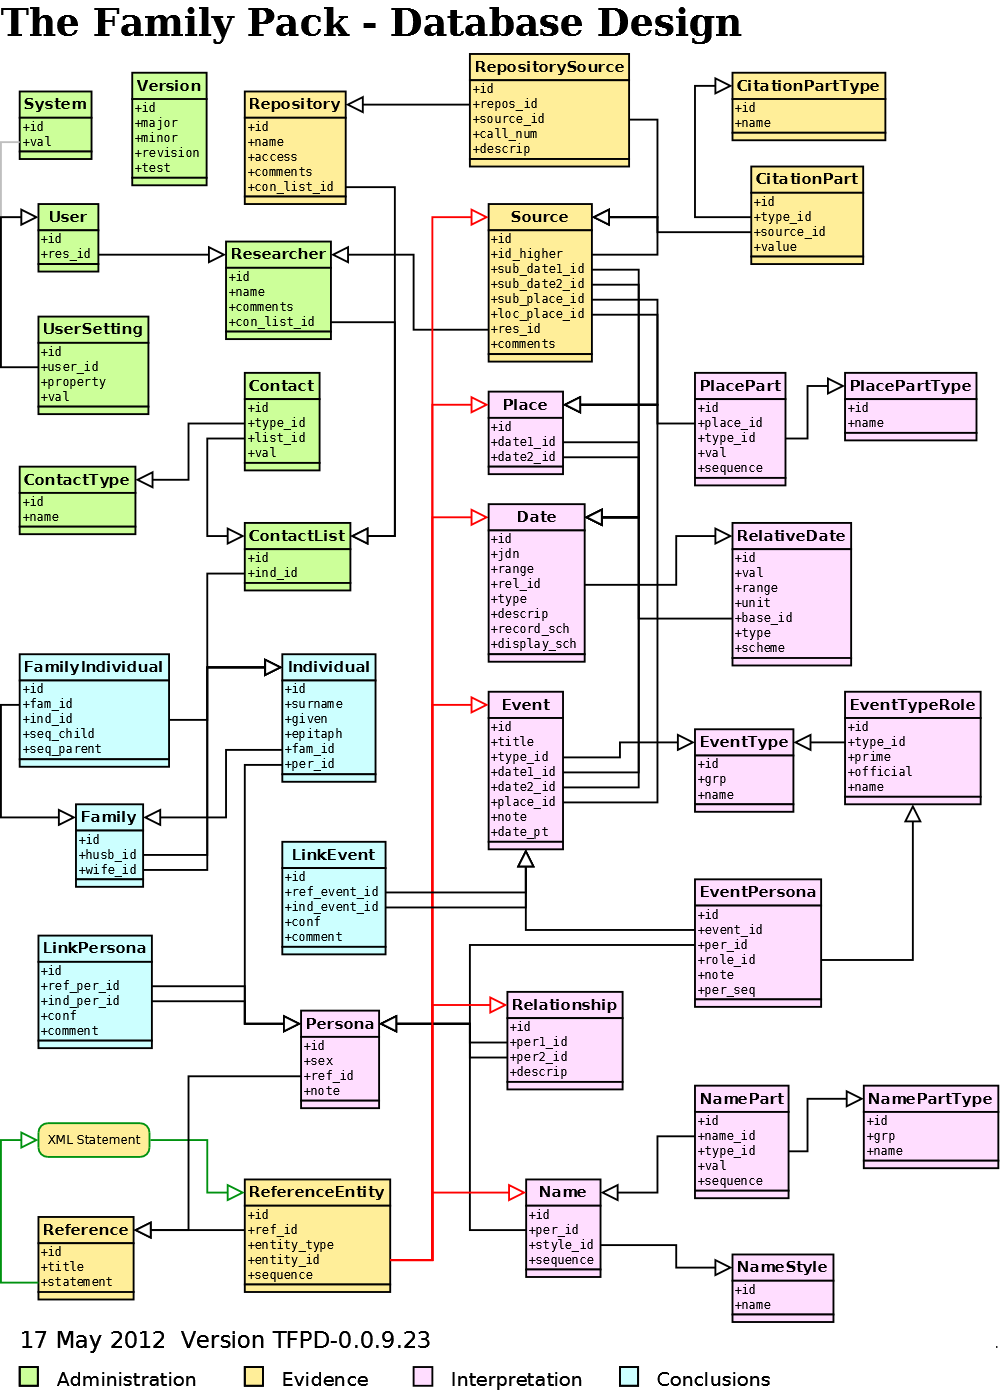
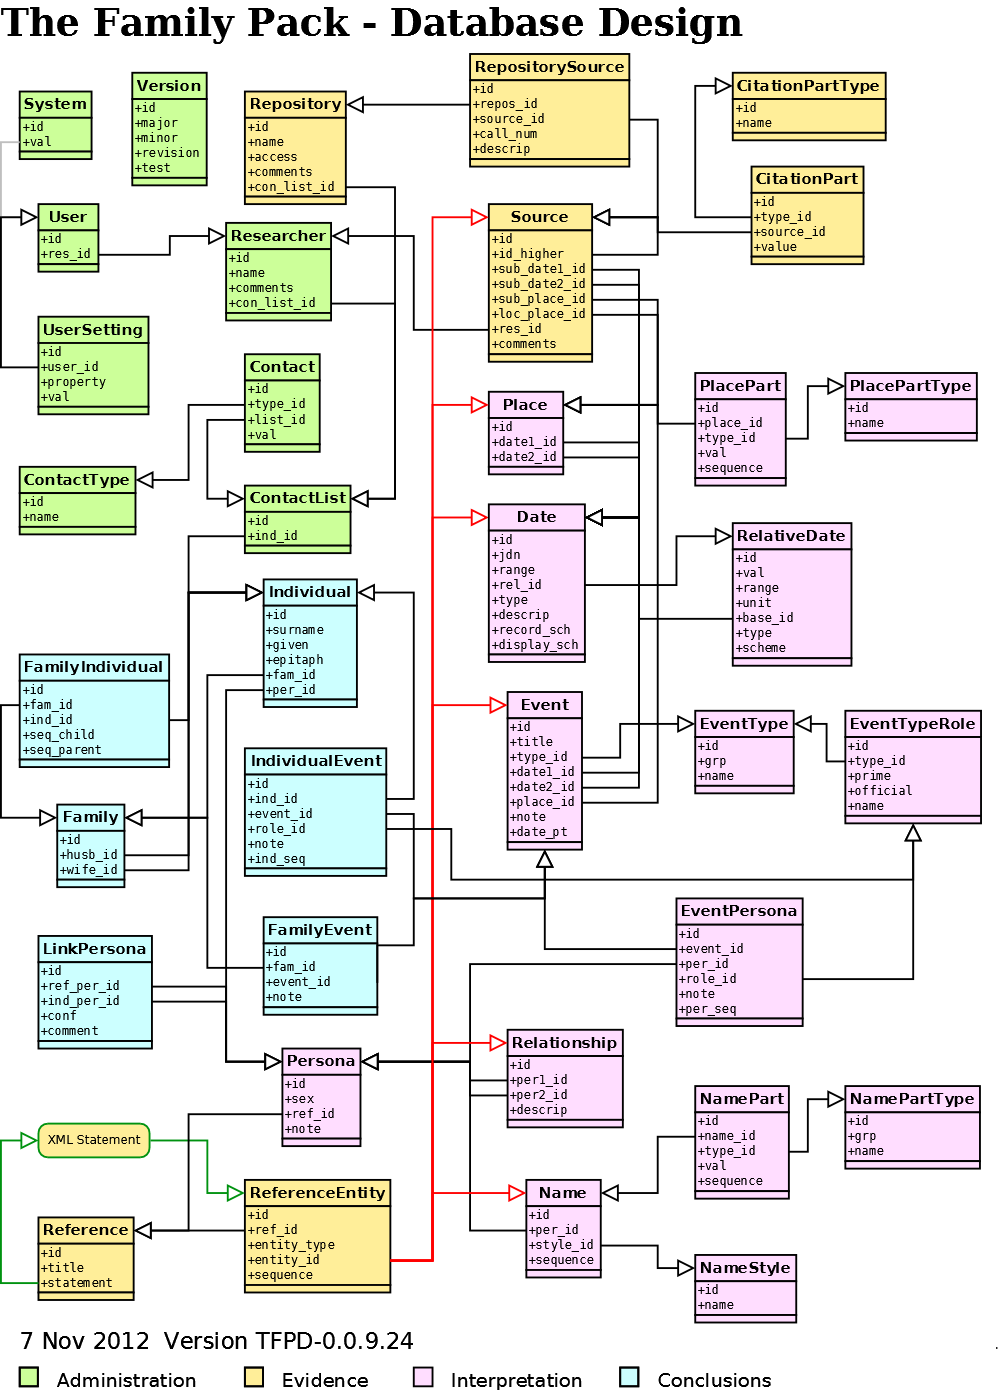
Update GEDCOM import to use TFPD-0.0.9.24 database. Correct a bug in the Create (new) database sql script.
git-svn-id: https://svn.code.sf.net/p/thefamilypack/code/tfp/trunk@306 0b5b8454-fdc9-41d1-a9ee-242ce37e0c65

diff --git a/src/rec/recGedParse.cpp b/src/rec/recGedParse.cpp
@@ -55,12 +55,15 @@ private:
     int                  m_nameSeq;
 
 public:
-    GedIndividual() : m_ind(0), m_per(0), m_nameSeq(0) { 
+    GedIndividual( idt indID ) : m_ind(0), m_per(0), m_nameSeq(0) { 
+        m_ind.FSetID( indID );
         m_per.Save(); 
         m_ind.f_per_id = m_per.f_id;
+        m_ind.Save();
     }
 
     idt GetPersonaID() const { return m_per.f_id; }
+    idt GetIndID() const { return m_ind.FGetID(); }
     int GetNameSeq() { return ++m_nameSeq; }
     wxString GetNameStr() const { return m_per.GetNameStr(); }
 
@@ -79,9 +82,13 @@ private:
     int       m_childSeq;
 
 public:
-    GedFamily() : m_fam(0), m_husbPerId(0), m_wifePerId(0), m_childSeq(0) {}
+    GedFamily( idt famID ) 
+        : m_fam(0), m_husbPerId(0), m_wifePerId(0), m_childSeq(0) 
+    {
+        m_fam.FSetID( famID );
+        m_fam.Save();
+    }
 
-    void SetFamId( idt famID ) { m_fam.f_id = famID; }
     void SetHusb( idt indID ) { 
         m_fam.f_husb_id = indID;
         UpdateIndividual( &m_husbPerId, indID ); 
@@ -93,8 +100,9 @@ public:
 
     void AddChild( idt indID );
 
-    idt GetHusbPerId() const { return m_husbPerId; }
-    idt GetWifePerId() const { return m_wifePerId; }
+    idt GetFamilyID() const { return m_fam.FGetID(); }
+    idt GetHusbIndId() const { return m_fam.f_husb_id; }
+    idt GetWifeIndId() const { return m_fam.f_wife_id; }
     wxString GetHusbNameStr() const { return recPersona::GetNameStr( m_husbPerId ); }
     wxString GetWifeNameStr() const { return recPersona::GetNameStr( m_wifePerId ); }
 
@@ -334,8 +342,7 @@ void recGedParse::ReadHead( int level )
 
 void recGedParse::ReadIndi( int level )
 {
-    GedIndividual gind;
-    gind.SetIndId( m_indiMap[ m_index ] );
+    GedIndividual gind( m_indiMap[ m_index ] );
 
     bool cont = ReadNextLine();
     while( cont && m_level >= level ) {
@@ -355,9 +362,6 @@ void recGedParse::ReadIndi( int level )
             case tagOCCU:
                 ReadIndEvent( gind, level+1 );
                 continue;
-//            case tagOCCU:
-//                ReadIndAttr( gind, level+1 );
-//                continue;
             case tag_END:
                 cont = false;
                 continue;
@@ -441,45 +445,46 @@ void recGedParse::ReadIndEvent( GedIndividual& gind, int level )
 {
     recEvent ev(0);
     ev.Save(); // We need the id number
-    recEventPersona ep(0);
-    ep.f_event_id = ev.f_id;
-    ep.f_per_id = gind.GetPersonaID();
+    recIndividualEvent ie(0);
+    ie.FSetEventID( ev.FGetID() );
+    ie.FSetIndID( gind.GetIndID() );
     wxString titlefmt;
     recDate::DatePoint dp;
 
     switch( m_tag )
     {
     case tagBIRT:
-        ev.f_type_id = recEventType::ET_Birth;
-        ep.f_role_id = recEventTypeRole::ROLE_Birth_Born;
+        ev.FSetTypeID( recEventType::ET_Birth );
+        ie.FSetRoleID( recEventTypeRole::ROLE_Birth_Born );
         titlefmt = _("Birth of %s");
         dp = recDate::DATE_POINT_Beg;
         break;
     case tagCHR:
-        ev.f_type_id = recEventType::ET_Baptism;
-        ep.f_role_id = recEventTypeRole::ROLE_Baptism_Baptised;
+        ev.FSetTypeID( recEventType::ET_Baptism );
+        ie.FSetRoleID( recEventTypeRole::ROLE_Baptism_Baptised );
         titlefmt = _("Baptism of %s");
         dp = recDate::DATE_POINT_Beg;
         break;
     case tagDEAT:
-        ev.f_type_id = recEventType::ET_Death;
-        ep.f_role_id = recEventTypeRole::ROLE_Death_Died;
+        ev.FSetTypeID( recEventType::ET_Death );
+        ie.FSetRoleID( recEventTypeRole::ROLE_Death_Died );
         titlefmt = _("Death of %s");
         dp = recDate::DATE_POINT_End;
         break;
     case tagBURI:
-        ev.f_type_id = recEventType::ET_Burial;
-        ep.f_role_id = recEventTypeRole::ROLE_Burial_Deceased;
+        ev.FSetTypeID( recEventType::ET_Burial );
+        ie.FSetRoleID( recEventTypeRole::ROLE_Burial_Deceased );
         titlefmt = _("Burial of %s");
         dp = recDate::DATE_POINT_End;
         break;
     case tagOCCU:
-        ev.f_type_id = recEventType::ET_Occupation;
-        ep.f_role_id = recEventTypeRole::FindOrCreate( m_text, recEventType::ET_Occupation );
+        ev.FSetTypeID( recEventType::ET_Occupation );
+        ie.FSetRoleID( recEventTypeRole::FindOrCreate( m_text, recEventType::ET_Occupation ) );
         titlefmt = _("Occupation of %s");
         dp = recDate::DATE_POINT_Mid;
         break;
     default:
+        ev.Delete();
         return; // do nothing
     }
 
@@ -504,8 +509,8 @@ void recGedParse::ReadIndEvent( GedIndividual& gind, int level )
     ev.f_title = wxString::Format( titlefmt, gind.GetNameStr() );
     ev.f_date_pt = recDate::GetDatePoint( ev.f_date1_id, dp );
     ev.Save();
-    ep.f_per_seq = ev.GetLastPersonaSeqNumber() + 1;
-    ep.Save();
+    ie.FSetIndSeq( ev.GetLastIndSeqNumber() + 1 );
+    ie.Save();
 }
 
 idt recGedParse::ParseEvDate( int level )
@@ -631,42 +636,9 @@ idt recGedParse::ParseEvPlace( int level )
     return place.f_id;
 }
 
-void recGedParse::ReadIndAttr( GedIndividual& gind, int level )
-{
-#if 0
-    recAttribute attr(0);
-    attr.Save(); // We need th Attribute id
-    attr.f_per_id = gind.GetPersonaID();
-    switch( m_tag )
-    {
-    case tagOCCU:
-        attr.f_type_id = recAttributeType::ATYPE_Occupation;
-        break;
-    default:
-        return; // ignore unrecognised attribute
-    }
-    attr.f_val = m_text;
-
-    bool cont = ReadNextLine();
-    while( cont && m_level >= level ) {
-        if( m_level == level ) {
-            switch( m_tag )
-            {
-            case tag_END:
-                cont = false;
-                continue;
-            }
-        }
-        cont = ReadNextLine();
-    }
-    attr.Save();
-#endif
-}
-
 void recGedParse::ReadFam( int level )
 {
-    GedFamily gfam;
-    gfam.SetFamId( m_famMap[ m_index ] );
+    GedFamily gfam( m_famMap[ m_index ] );
 
     bool cont = ReadNextLine();
     while( cont && m_level >= level ) {
@@ -701,23 +673,28 @@ void recGedParse::ReadFamEvent( GedFamily& gfam, int level )
     ev.Save(); // We need the id number
     wxString titlefmt;
 
-    recEventPersona epHusb(0);
-    epHusb.f_event_id = ev.f_id;
-    epHusb.f_per_id = gfam.GetHusbPerId();
+    recFamilyEvent fe(0);
+    fe.FSetEventID( ev.FGetID() );
+    fe.FSetFamID( gfam.GetFamilyID() );
 
-    recEventPersona epWife(0);
-    epWife.f_event_id = ev.f_id;
-    epWife.f_per_id = gfam.GetWifePerId();
+    recIndividualEvent ieHusb(0);
+    ieHusb.FSetEventID( ev.FGetID() );
+    ieHusb.FSetIndID( gfam.GetHusbIndId() );
+
+    recIndividualEvent ieWife(0);
+    ieWife.FSetEventID( ev.FGetID() );
+    ieWife.FSetIndID( gfam.GetWifeIndId() );
 
     switch( m_tag )
     {
     case tagMARR:
-        ev.f_type_id = recEventType::ET_Marriage;
-        epHusb.f_role_id = recEventTypeRole::ROLE_Marriage_Groom;
-        epWife.f_role_id = recEventTypeRole::ROLE_Marriage_Bride;
+        ev.FSetTypeID( recEventType::ET_Marriage );
+        ieHusb.FSetRoleID( recEventTypeRole::ROLE_Marriage_Groom );
+        ieWife.FSetRoleID( recEventTypeRole::ROLE_Marriage_Bride );
         titlefmt = _("Marriage of %s and %s");
         break;
     default:
+        ev.Delete();
         return; // do nothing
     }
 
@@ -743,12 +720,13 @@ void recGedParse::ReadFamEvent( GedFamily& gfam, int level )
     ev.f_title = wxString::Format( titlefmt, gfam.GetHusbNameStr(), gfam.GetWifeNameStr() );
     ev.f_date_pt = recDate::GetDatePoint( ev.f_date1_id );
     ev.Save();
+    fe.Save();
 
-    int seq = ev.GetLastPersonaSeqNumber();
-    epHusb.f_per_seq = seq + 1;
-    if( epHusb.FGetPerID() ) epHusb.Save();
-    epWife.f_per_seq = seq + 2;
-    if( epWife.FGetPerID() ) epWife.Save();
+    int seq = ev.GetLastIndSeqNumber();    
+    ieHusb.FSetIndSeq( seq + 1 );
+    if( ieHusb.FGetIndID() ) ieHusb.Save();
+    ieWife.FSetIndSeq( seq + 2 );
+    if( ieWife.FGetIndID() ) ieWife.Save();
 }
 
 void recGedParse::ReadSubm( int level )

diff --git a/src/rec/recEvent.cpp b/src/rec/recEvent.cpp
@@ -390,12 +390,23 @@ wxSQLite3ResultSet recEvent::GetTitleList()
     return s_db->ExecuteQuery( sql );
 }
 
-int recEvent::GetLastPersonaSeqNumber( idt eventID )
+int recEvent::GetLastPerSeqNumber( idt eventID )
 {
     wxSQLite3StatementBuffer sql;
 
     sql.Format(
         "SELECT MAX(per_seq) FROM EventPersona WHERE event_id="ID";",
+        eventID
+    );
+    return s_db->ExecuteScalar( sql );
+}
+
+int recEvent::GetLastIndSeqNumber( idt eventID )
+{
+    wxSQLite3StatementBuffer sql;
+
+    sql.Format(
+        "SELECT MAX(ind_seq) FROM IndividualEvent WHERE event_id="ID";",
         eventID
     );
     return s_db->ExecuteScalar( sql );

diff --git a/include/rec/recEvent.h b/include/rec/recEvent.h
@@ -224,8 +224,10 @@ public:
     recEventPersonaVec GetEventPersonas();
     static wxSQLite3ResultSet GetTitleList();
 
-    static int GetLastPersonaSeqNumber( idt eventID );
-    int GetLastPersonaSeqNumber() const { return GetLastPersonaSeqNumber( f_id ); }
+    static int GetLastPerSeqNumber( idt eventID );
+    int GetLastPerSeqNumber() const { return GetLastPerSeqNumber( f_id ); }
+    static int GetLastIndSeqNumber( idt eventID );
+    int GetLastIndSeqNumber() const { return GetLastIndSeqNumber( f_id ); }
 
     // Delete Event and remove all references to it.
     bool DeleteFromDb() { return DeleteFromDb( f_id ); }

diff --git a/include/rec/recGedParse.h b/include/rec/recGedParse.h
@@ -102,7 +102,6 @@ private:
     void ReadName( GedIndividual& gind, int level );
     void ReadSex( GedIndividual& gind );
     void ReadIndEvent( GedIndividual& gind, int level );
-    void ReadIndAttr( GedIndividual& gind, int level );
     void ReadFam( int level );
     void ReadFamEvent( GedFamily& gfam, int level );
     void ReadSubm( int level );
